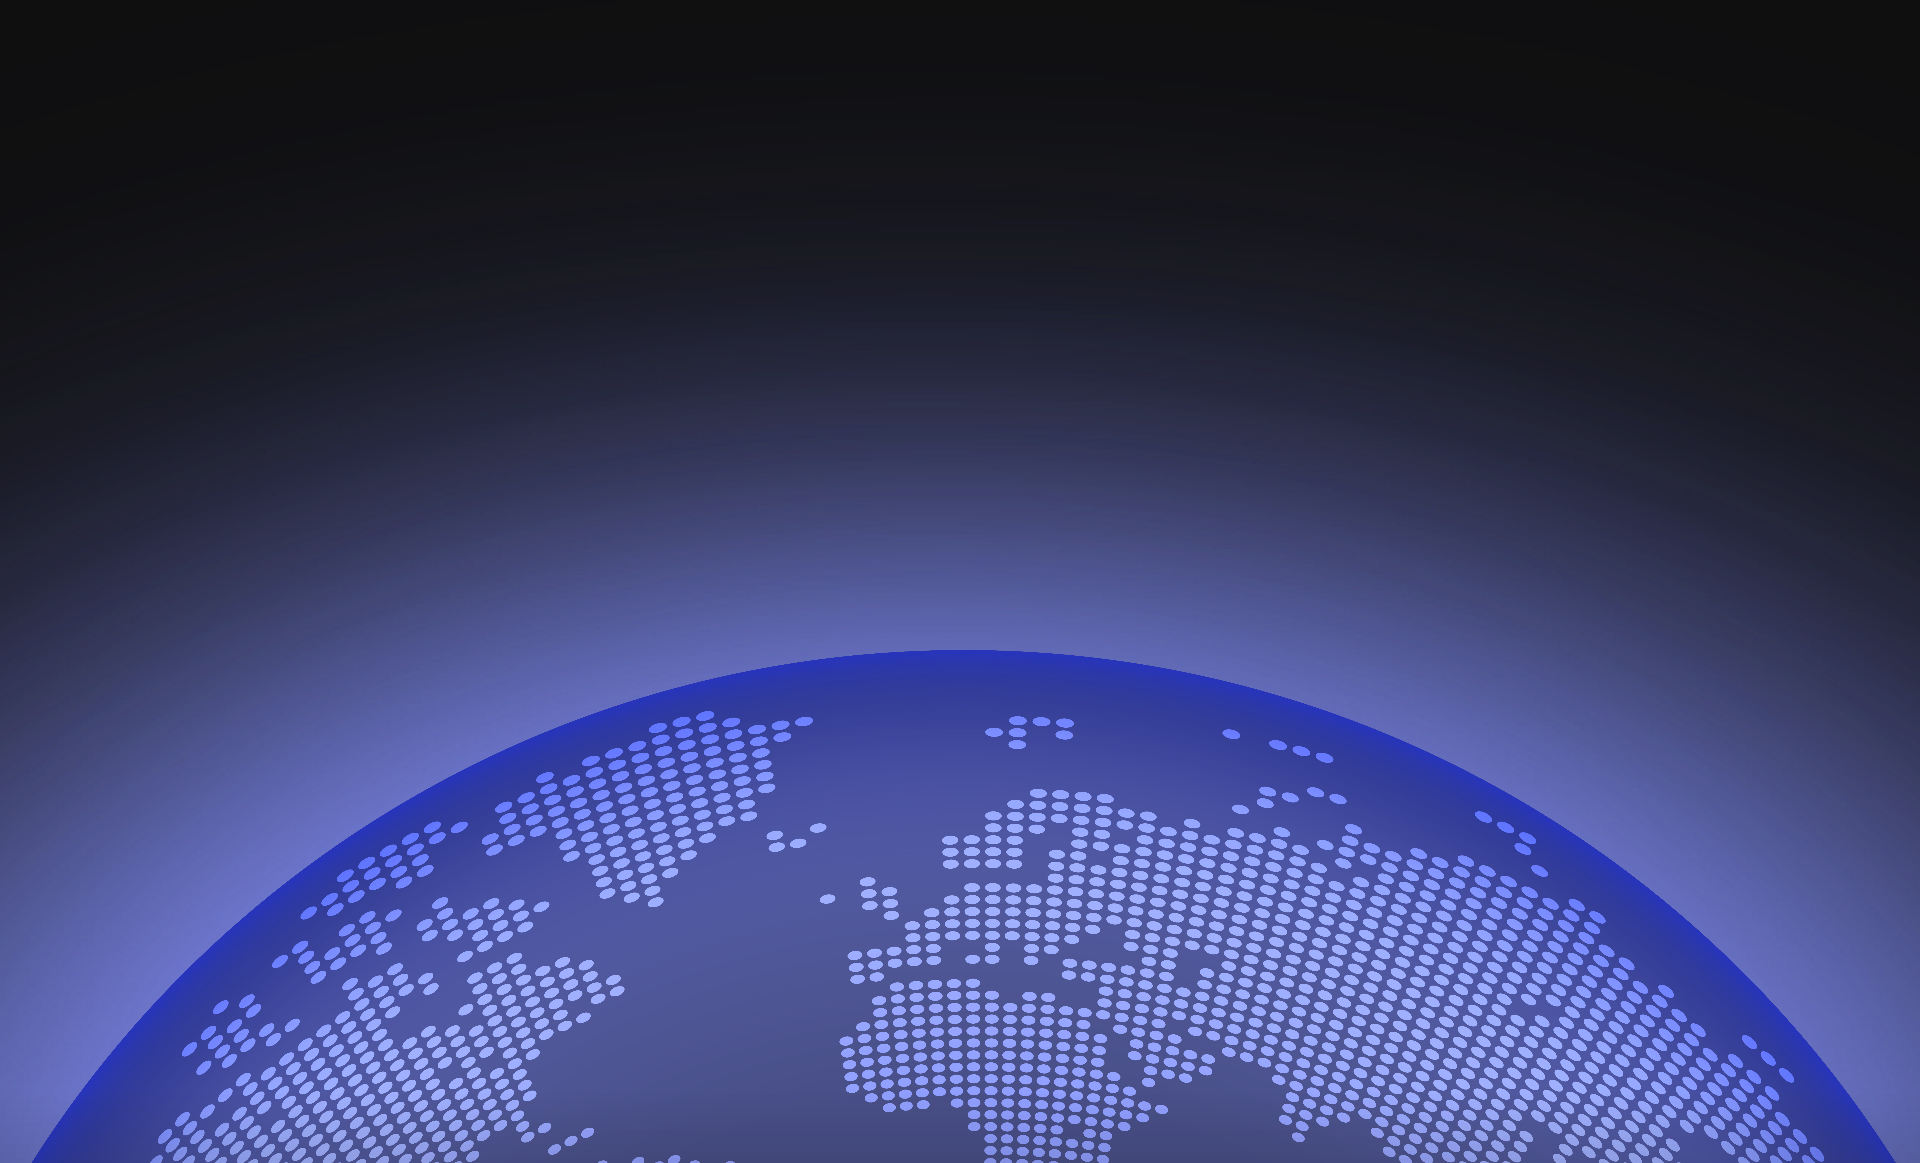
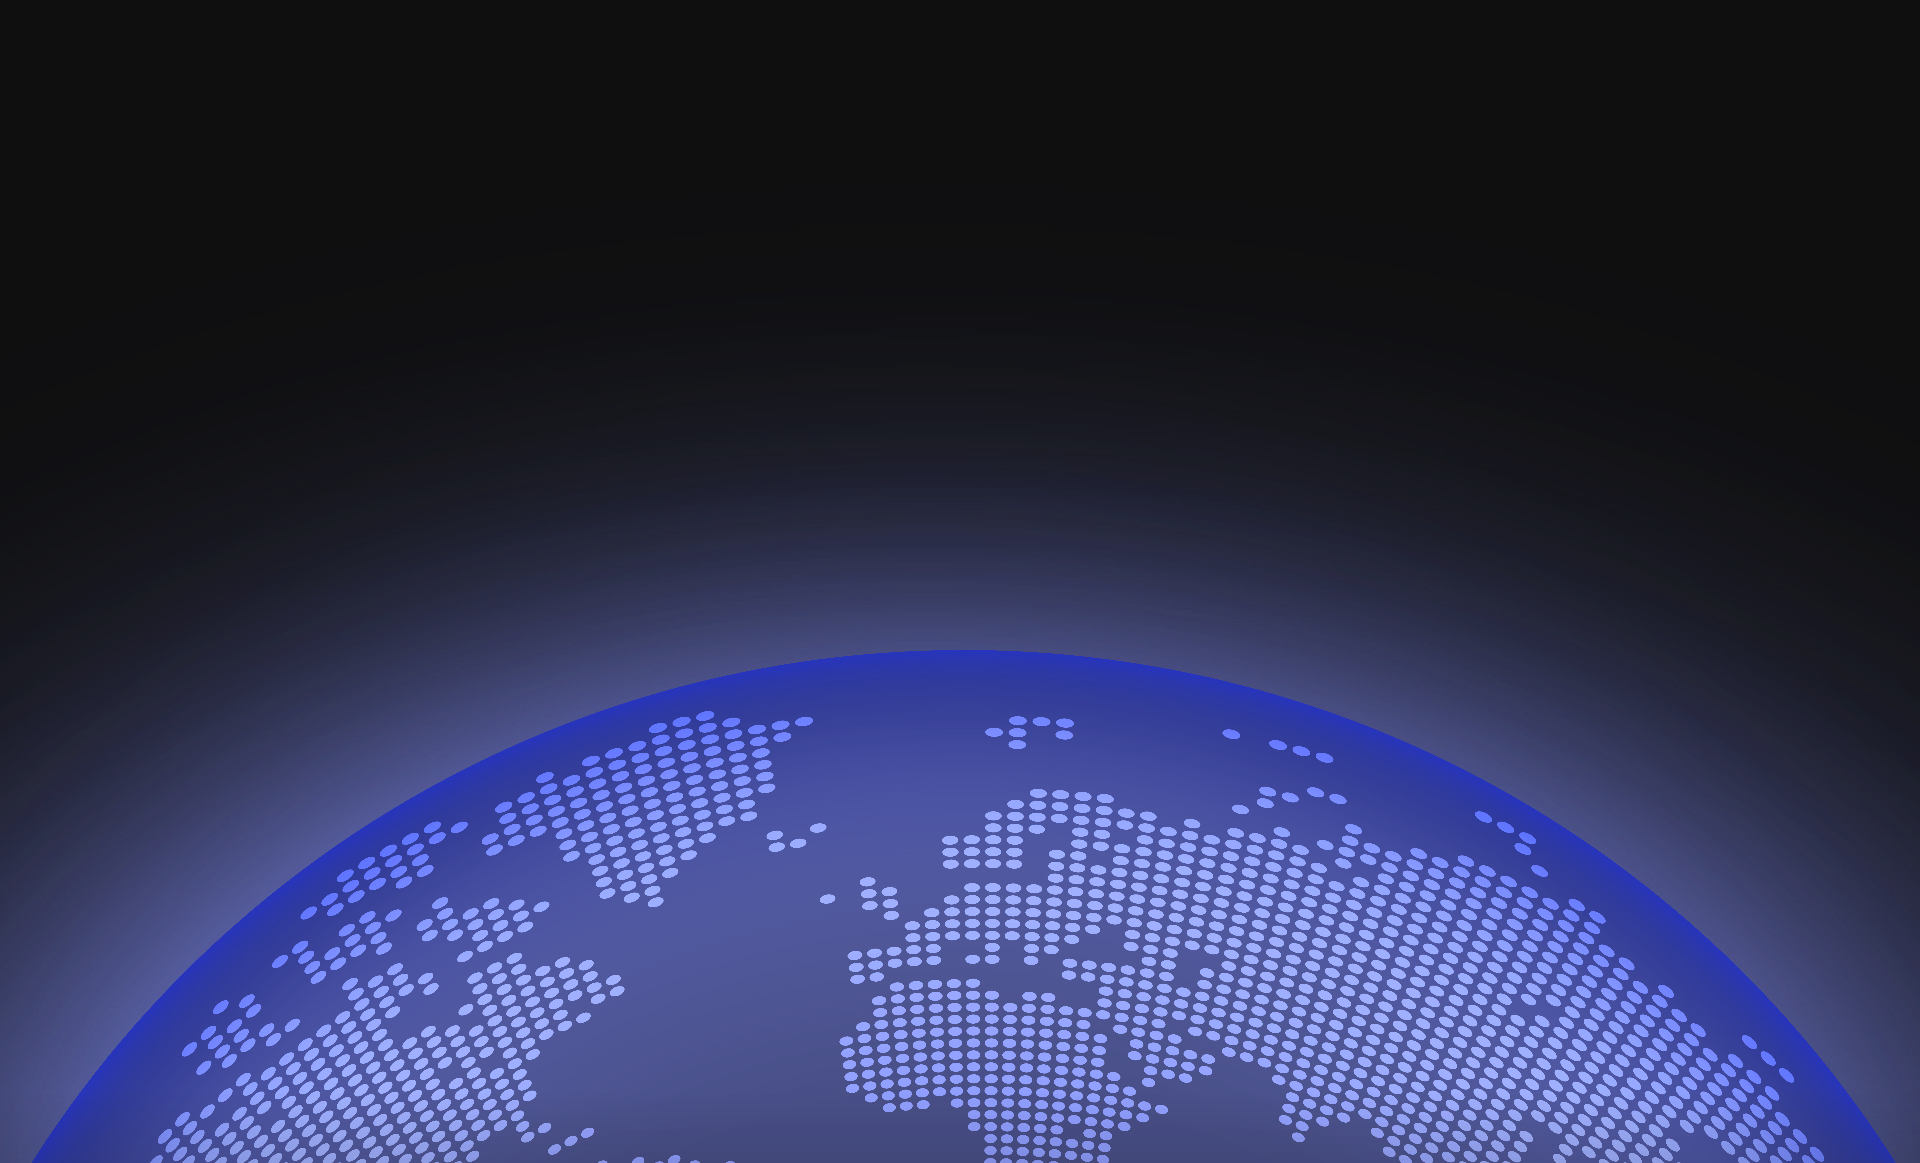
Set global background image

diff --git a/src/components/Hero.tsx b/src/components/Hero.tsx
@@ -1,7 +1,7 @@
 import { Button } from "@/components/ui/button";
 import { ArrowRight, Globe, Shield, Zap, Smartphone, Router, Monitor, Laptop } from "lucide-react";
 const Hero = () => {
-  return <section id="home" className="relative min-h-screen flex items-center justify-center pt-24 pb-20 floating-particles" aria-label="首页英雄区">
+  return <section id="home" className="relative min-h-screen flex items-center justify-center pt-24 pb-20 floating-particles" style={{ backgroundImage: 'url(/hero-background.jpg)', backgroundSize: 'cover', backgroundPosition: 'center', backgroundAttachment: 'fixed' }} aria-label="首页英雄区">
       <div className="container mx-auto px-4 text-center relative z-10">
         {/* 主标题区 */}
         <div className="max-w-4xl mx-auto mb-20">          

diff --git a/src/index.css b/src/index.css
@@ -104,11 +104,8 @@
 
   body {
     @apply bg-background text-foreground;
-    background-image: url('/global-background.jpg');
-    background-size: cover;
-    background-position: center;
+    background: radial-gradient(ellipse at center, hsl(225 50% 20%) 0%, hsl(220 60% 10%) 50%, hsl(220 70% 5%) 100%);
     background-attachment: fixed;
-    background-repeat: no-repeat;
     overflow-x: hidden;
     font-family: -apple-system, BlinkMacSystemFont, "Segoe UI", Roboto, sans-serif;
   }
